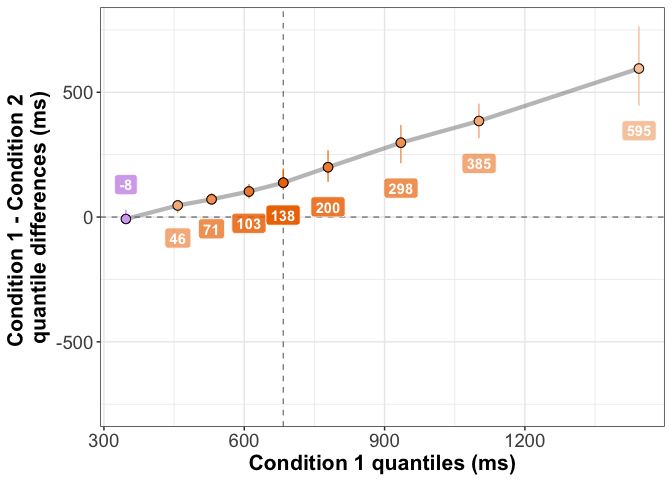
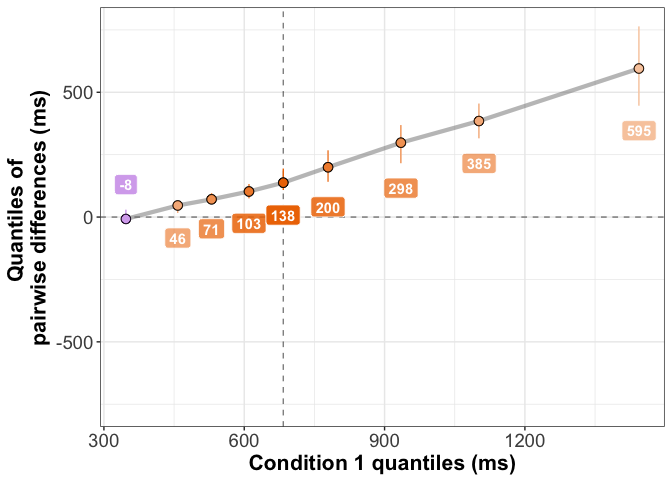
update sf figures + wordpress link

Changed region(s): [[0.0, 0.1875, 0.0938, 0.7188]]

diff --git a/shiftpdhd/docs/new_shiftdhd.md b/shiftpdhd/docs/new_shiftdhd.md
@@ -156,7 +156,7 @@ p <- ggplot(df, aes(x=Condition1, y=Condition2)) +
         axis.title.y = element_text(size = 18),
         legend.position = "none") +
   labs(title="Paired observations") +
-  coord_fixed(xlim = c(0, 2500), ylim = c(0, 2500)) 
+  coord_fixed(xlim = c(0, 2500), ylim = c(0, 2500))
 p
 ```
 
@@ -197,7 +197,7 @@ psf
 
 ``` r
 # save figure
-ggsave(filename='figure_sf.png',width=7,height=5) #path=pathname
+ggsave(filename='figure_sf_dhd.png',width=7,height=5) #path=pathname
 ```
 
 New shift function
@@ -258,7 +258,7 @@ psf <- plot_sf(sf2, plot_theme = 2, symb_size = 3)
 # change axis labels
 psf <- psf +
   labs(x = "Condition 1 quantiles (ms)",
-       y = "Condition 1 - Condition 2 \nquantile differences (ms)")
+       y = "Quantiles of \npairwise differences (ms)")
 
 # add labels for deciles 1 & 9
 psf <- add_sf_lab(psf, round(sf2), y_lab_nudge = 100)
@@ -269,5 +269,5 @@ psf
 
 ``` r
 # save figure
-ggsave(filename='figure_sf_diff.png',width=7,height=5) #path=pathname
+ggsave(filename='figure_sf_pdhd.png',width=7,height=5) #path=pathname
 ```

diff --git a/shiftpdhd/README.md b/shiftpdhd/README.md
@@ -1,4 +1,4 @@
-R code and notebook for my [blog post](https://garstats.wordpress.com/2018/04/06/bsf/) on the new shift function for dependent groups:
+R code and notebook for my [blog post](https://garstats.wordpress.com/2018/04/30/shiftpdhd/) on the new shift function for dependent groups:
 
 The notebook is available [here](docs/new_shiftdhd.md).
 
